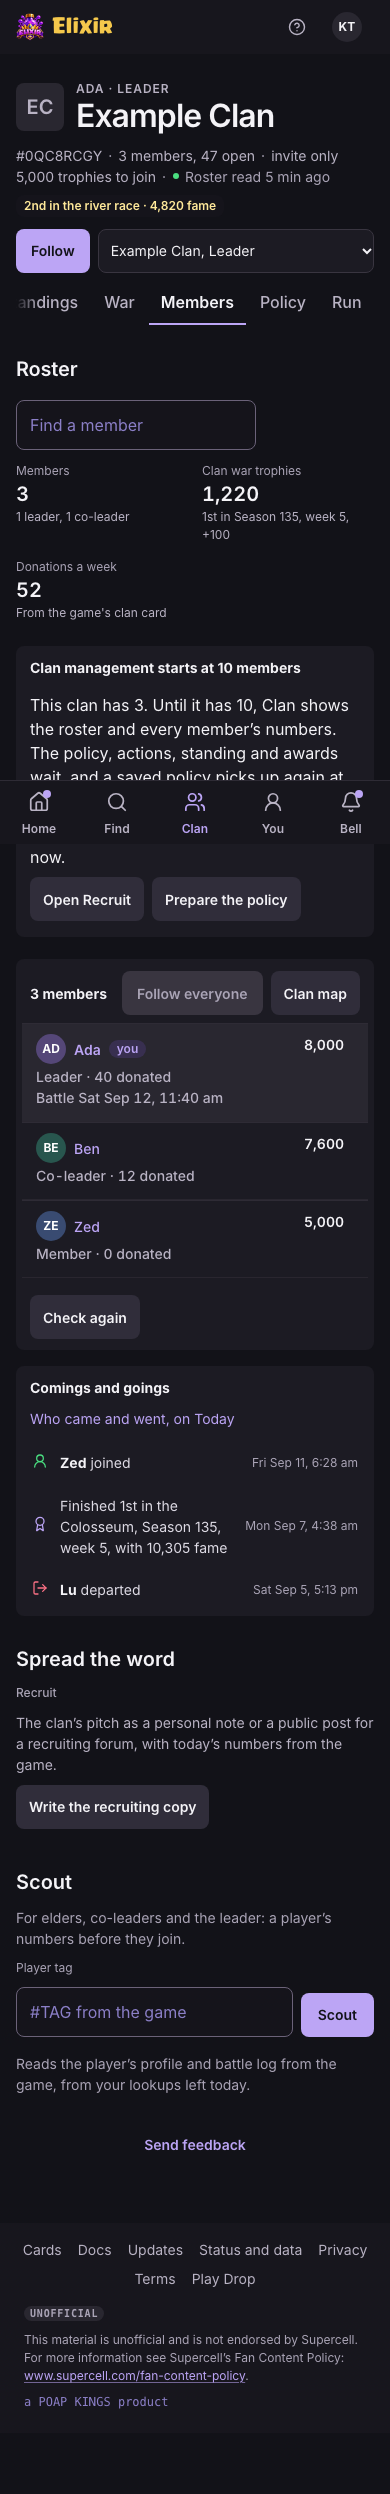
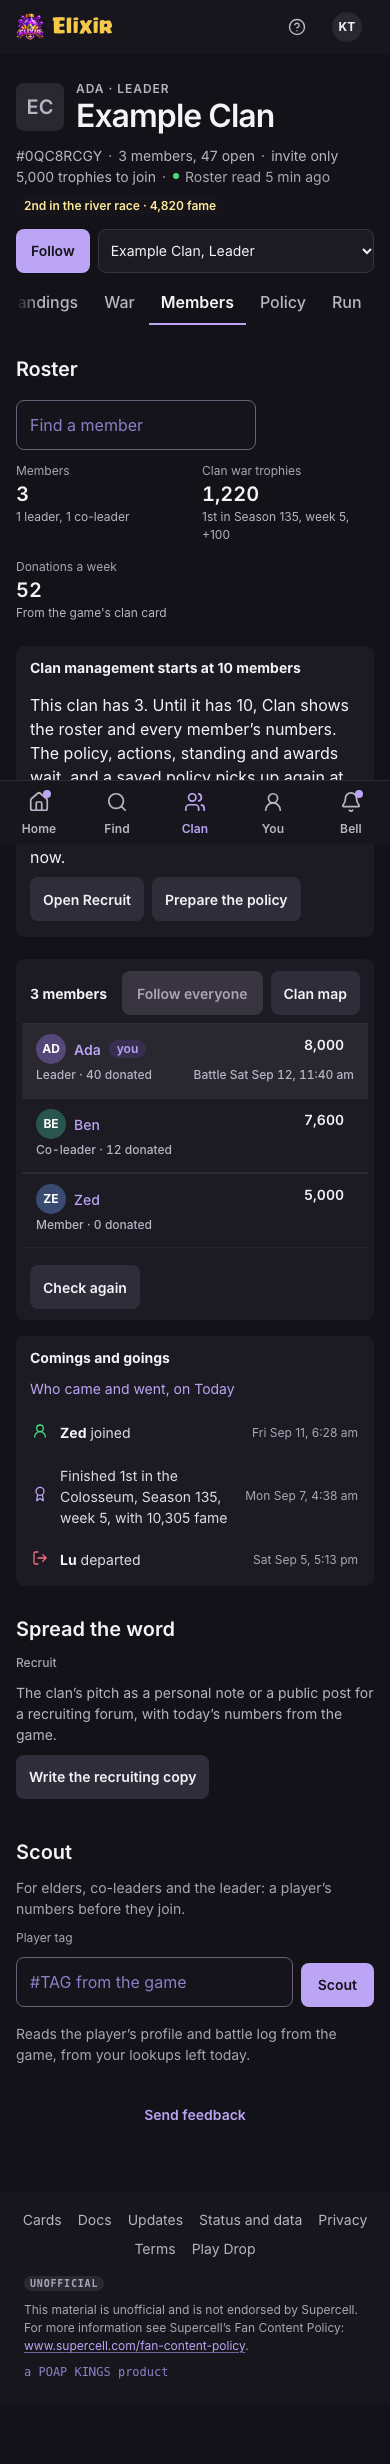
Keep roster density stable with loaded and fallback fonts

diff --git a/apps/web/e2e/page-frame.spec.ts b/apps/web/e2e/page-frame.spec.ts
@@ -182,22 +182,32 @@ test("@narrow mode chips scroll on one line, and the edge says there are more", 
   ).toBeLessThanOrEqual(0);
 });
 
-test("@narrow Clan's roster is two lines a member", async ({ page }) => {
-  await clanApi(page, clanIn());
-  await page.goto("/clan/0QC8RCGY/members");
-  const row = page.locator(".roster-table tbody tr").first();
-  await expect(row).toBeVisible();
-  await expect(row.locator(".roster-table__wide").first()).toBeHidden();
-  await expect(row.locator(".roster-table__line")).toBeVisible();
-  const box = await row.boundingBox();
-  expect(box?.height ?? 0).toBeGreaterThanOrEqual(44);
-  expect(box?.height ?? 999).toBeLessThan(90);
-  // The avatar leads the row (2026-11-13, the canvas's roster), and the
-  // name follows it with no column between them.
-  const avatar = row.locator(".kit-table__lead .kit-av").first();
-  const av = await avatar.boundingBox();
-  expect((av?.x ?? 999) - (box?.x ?? 0)).toBeLessThan(30);
-  const name = row.locator(".kit-table__lead a").first();
-  const left = (await name.boundingBox())?.x ?? 999;
-  expect(left - ((av?.x ?? 0) + (av?.width ?? 0))).toBeLessThan(16);
-});
+for (const width of [390, 420]) {
+  for (const font of ["loaded", "fallback"]) {
+    test(`@narrow Clan's roster is two lines a member at ${width}px with ${font} fonts`, async ({
+      page,
+    }) => {
+      await page.setViewportSize({ width, height: 860 });
+      if (font === "fallback")
+        await page.route("**/assets/fonts/**", (route) => route.abort());
+      await clanApi(page, clanIn());
+      await page.goto("/clan/0QC8RCGY/members");
+      const row = page.locator(".roster-table tbody tr").first();
+      await expect(row).toBeVisible();
+      await page.evaluate(() => document.fonts.ready);
+      await expect(row.locator(".roster-table__wide").first()).toBeHidden();
+      await expect(row.locator(".roster-table__line")).toBeVisible();
+      const box = await row.boundingBox();
+      expect(box?.height ?? 0).toBeGreaterThanOrEqual(44);
+      expect(box?.height ?? 999).toBeLessThan(90);
+      // The avatar leads the row (2026-11-13, the canvas's roster), and the
+      // name follows it with no column between them.
+      const avatar = row.locator(".kit-table__lead .kit-av").first();
+      const av = await avatar.boundingBox();
+      expect((av?.x ?? 999) - (box?.x ?? 0)).toBeLessThan(30);
+      const name = row.locator(".kit-table__lead a").first();
+      const left = (await name.boundingBox())?.x ?? 999;
+      expect(left - ((av?.x ?? 0) + (av?.width ?? 0))).toBeLessThan(16);
+    });
+  }
+}

diff --git a/packages/design/src/components.css b/packages/design/src/components.css
@@ -6568,7 +6568,7 @@ button.kit-row {
     justify-content: space-between;
     gap: 0 var(--s-3);
     margin-top: 2px;
-    font-size: var(--t-body-sm);
+    font-size: var(--t-caption);
     color: var(--ink-dim);
   }
   .kit-table--cards > tbody > tr > .kit-table__lead {

diff --git a/docs/notes/2026-11-14-visual-direction.md b/docs/notes/2026-11-14-visual-direction.md
@@ -82,7 +82,11 @@ Dynamic card-art crop styles stay.
 ## Tests deliberately changed
 
 - `page-frame.spec.ts`: page and place names now use Inter rather than
-  pinning the display face on Clan's title.
+  pinning the display face on Clan's title. It also checks roster density
+  at 390px and 420px with both loaded and unavailable web fonts. CI
+  exposed a 99px roster row that the original local check could measure
+  before fonts settled; phone roster metadata now uses the 12px caption
+  role so the fixture stays within the original 90px limit in both states.
 - `battle-highlight.test.jsx`: pins the primary action's role class,
   replacing the old gold-paint class; the action and its words stay.
 - `theme.test.mjs`: the existing radius utility resolves to the single
@@ -99,7 +103,7 @@ Dynamic card-art crop styles stay.
   lazy card art cannot leave a blank deck in a published capture.
 
 `npm run verify` passed on Node 24, including all 30 test units, static
-checks and Lambda builds. The full `npm run e2e` suite passed 505 journeys.
+checks and Lambda builds. The full `npm run e2e` suite passed 508 journeys.
 Native in-app browser review separately exercised Home → Friends → Ada,
 player tabs with arrow keys and Enter, and the bell. Phone and desktop
 checks found no page overflow or app console errors. The corrected Home
